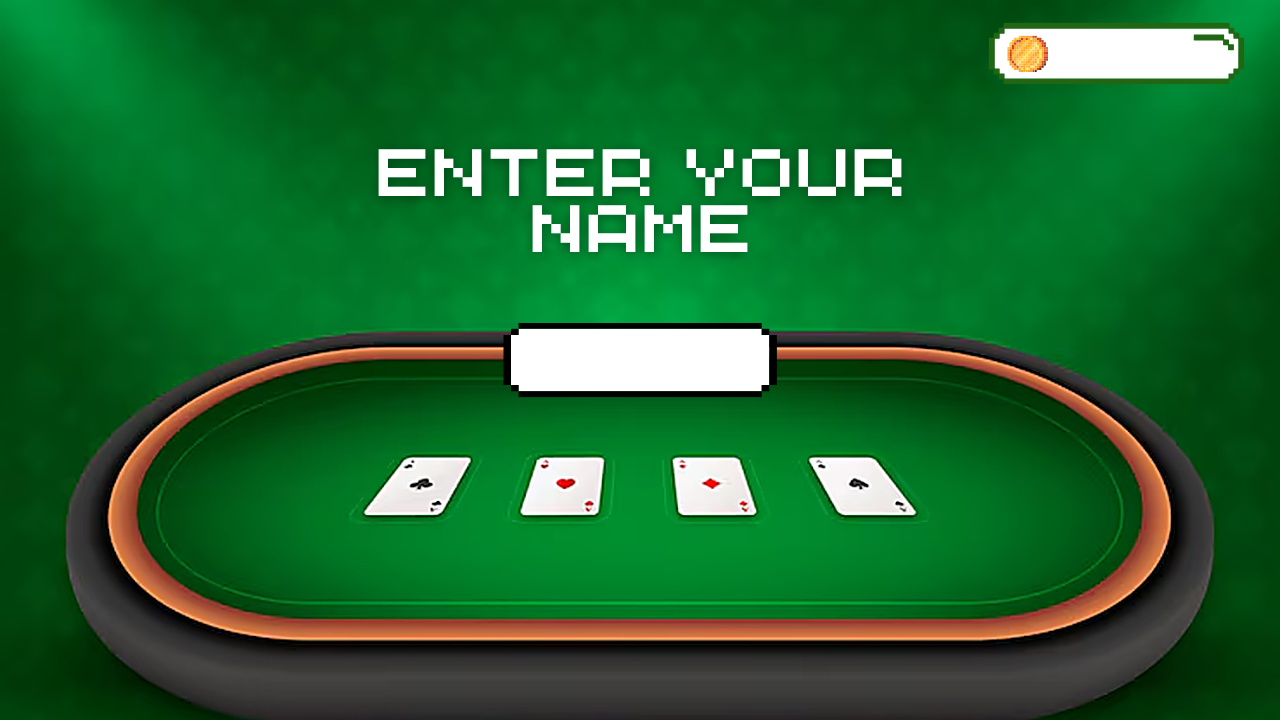
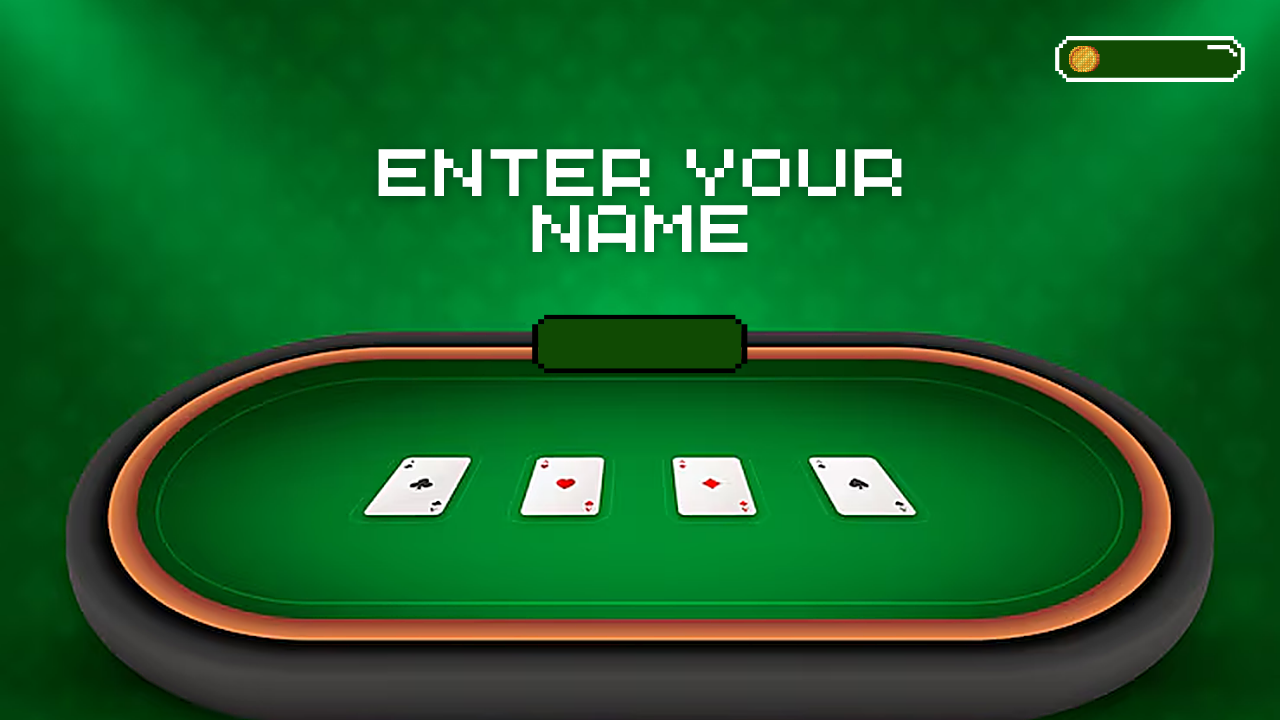
created get name and enter bet page

Changed region(s): [[0.375, 0.4278, 0.625, 0.55], [0.75, 0.0306, 1.0, 0.1222]]

diff --git a/CPTtools.java b/CPTtools.java
@@ -23,6 +23,42 @@ public class CPTtools{
 		
 	}
 	
+	public static void getname(Console con, int intMoney){
+		BufferedImage imgGetName = con.loadImage("getname.png");
+		con.drawImage(imgGetName, 0, 0);
+		int intCount; 
+		CPTtools.printmoney(con, intMoney);
+		for(intCount = 0; intCount < 10; intCount++){
+			con.println(" ");
+		}
+		con.println(" ");
+		con.print("                                              ");
+	}
+	
+	public static void printmoney(Console con, int intMoney){
+		con.println(" ");
+		con.println("                                                                                            "+intMoney);
+	}
+	
+	public static void getbet(Console con, int intMoney){
+		BufferedImage imgGetBet = con.loadImage("getbet.png");
+		con.drawImage(imgGetBet, 0, 0);
+		int intCount; 
+		con.println(" ");
+		CPTtools.printmoney(con, intMoney);
+		for(intCount = 0; intCount < 13; intCount++){
+			con.println(" ");
+		}
+		con.println(" ");
+		con.print("                                              ");
+	}
+	
+	public static int calculatemoney(int intBet, int intMoney){
+		intMoney = intMoney - intBet; 
+		return intMoney; 
+	}
+		
+	
 	
 	
 	

diff --git a/CPTPokerMain.java b/CPTPokerMain.java
@@ -6,12 +6,23 @@ public class CPTPokerMain{
 	public static void main(String[] args){
 		Console con = new Console("Poker - ICS3U1 CPT", 1280, 720);
 		CPTtools.mainmenu(con);
-		
+        
+        String strName;
 		char chrChoice; 
 		chrChoice = con.getChar();
+		int intMoney = 1000;
+		int intBet; 
 		
 		if(chrChoice == 'p'){
 			CPTtools.clear(con);
+			CPTtools.getname(con, intMoney);
+			strName = con.readLine();
+			con.clear();
+			CPTtools.getbet(con, intMoney);
+			intBet = con.readInt();
+			CPTtools.clear(con);
+			intMoney = CPTtools.calculatemoney(intBet, intMoney);
+			CPTtools.printmoney(con, intMoney);
 		}else if(chrChoice == 'h'){
 			CPTtools.clear(con);
 		}else if(chrChoice == 'l'){
